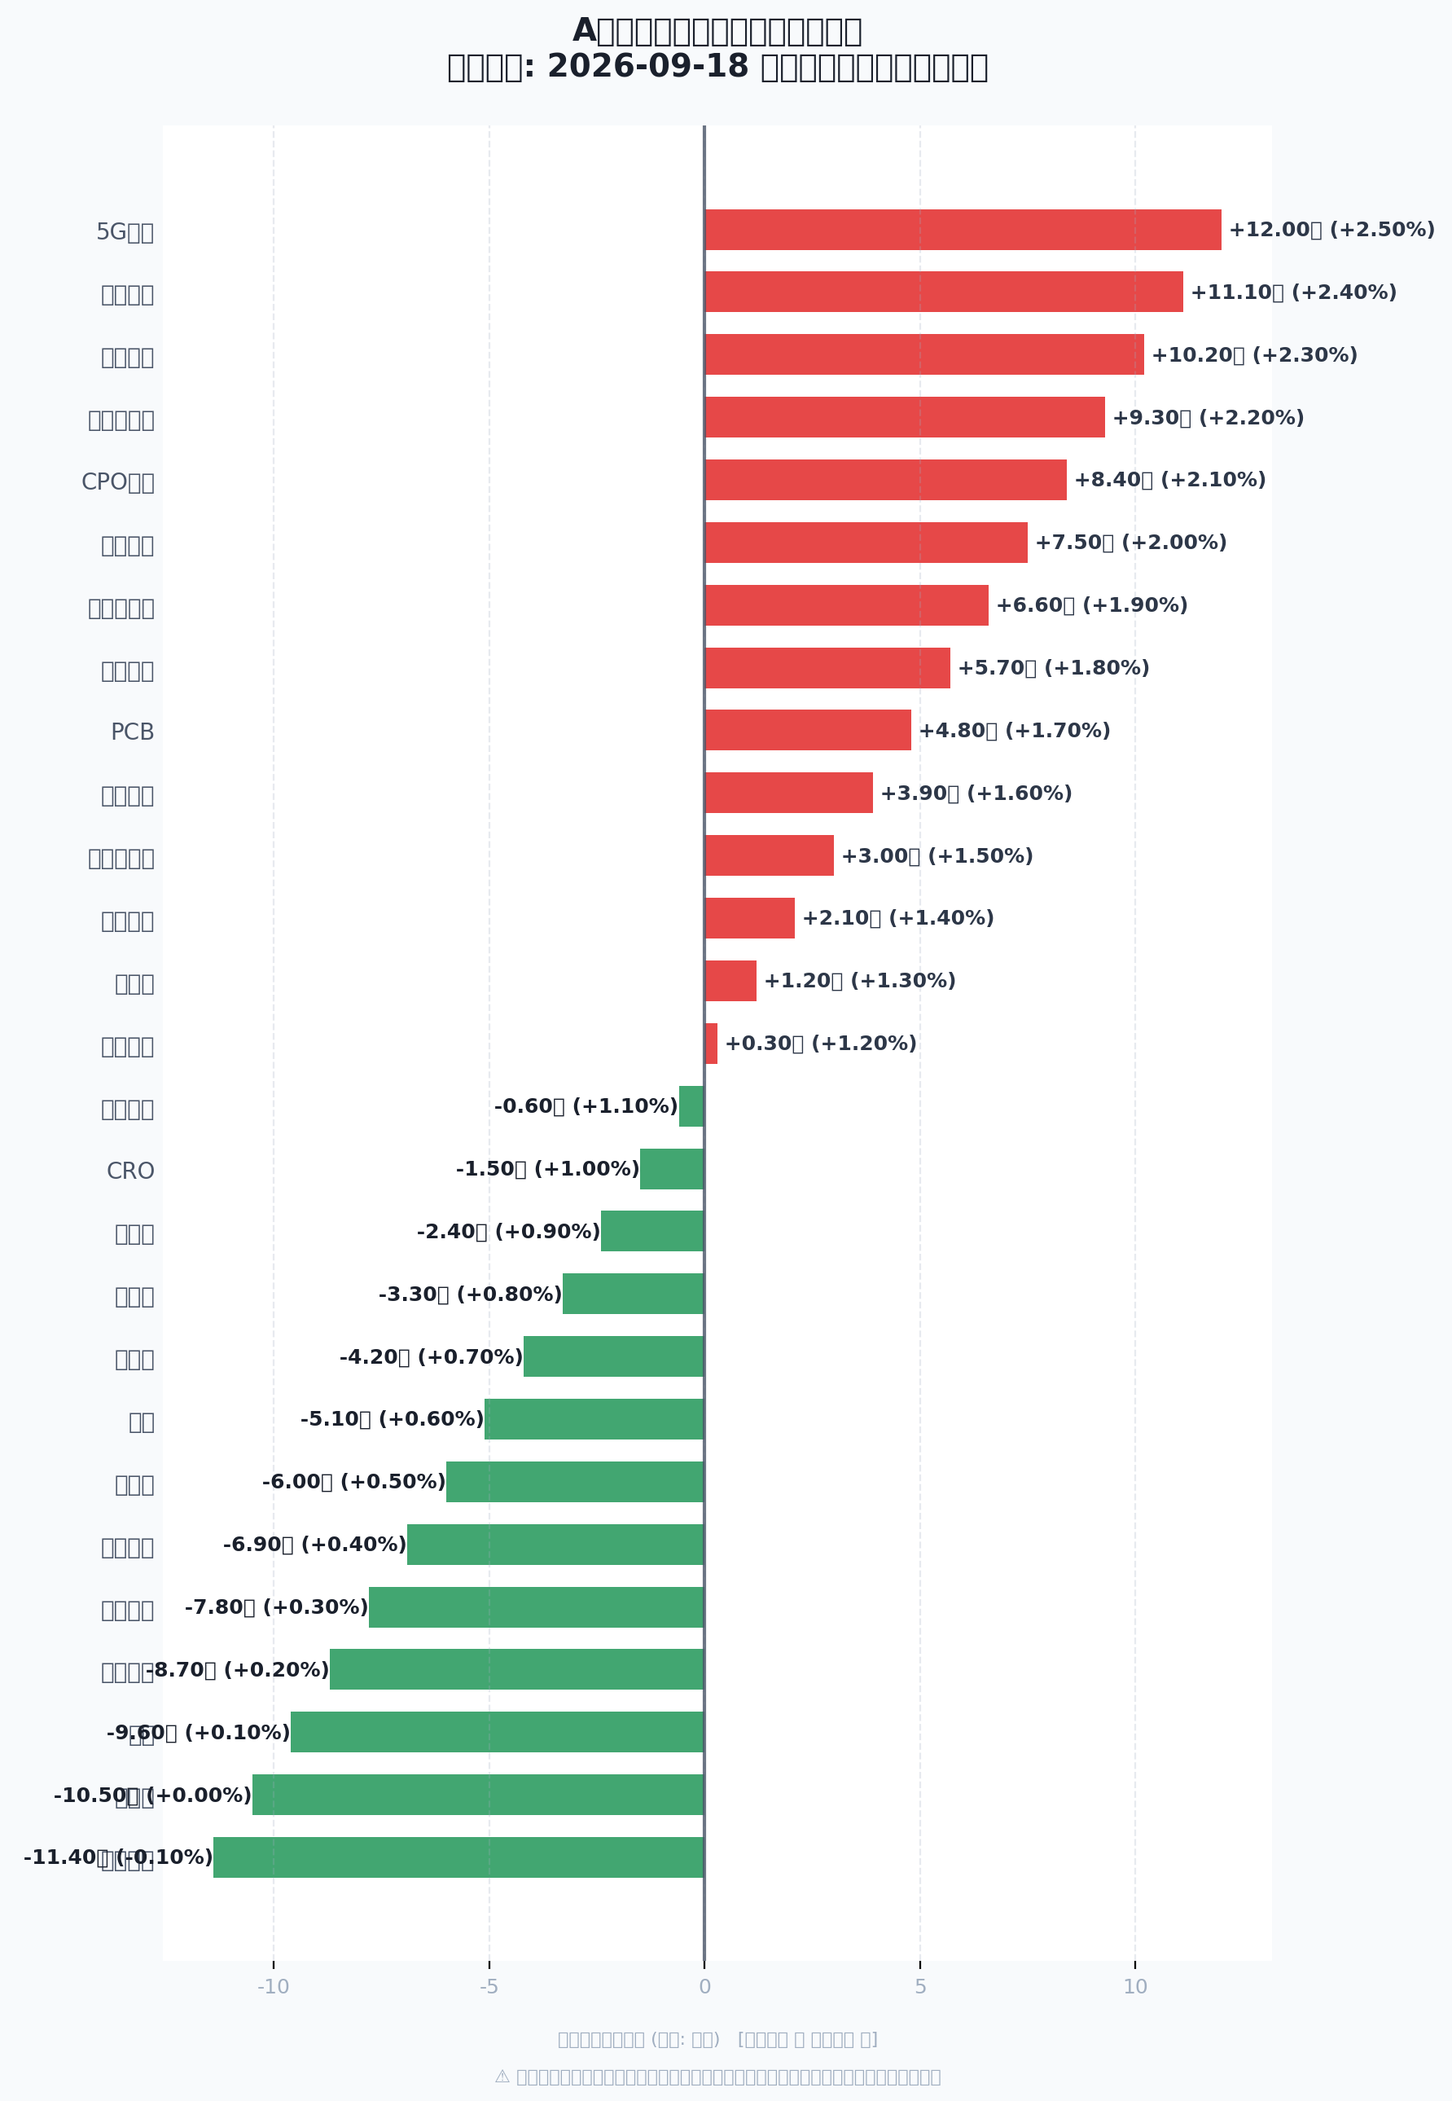
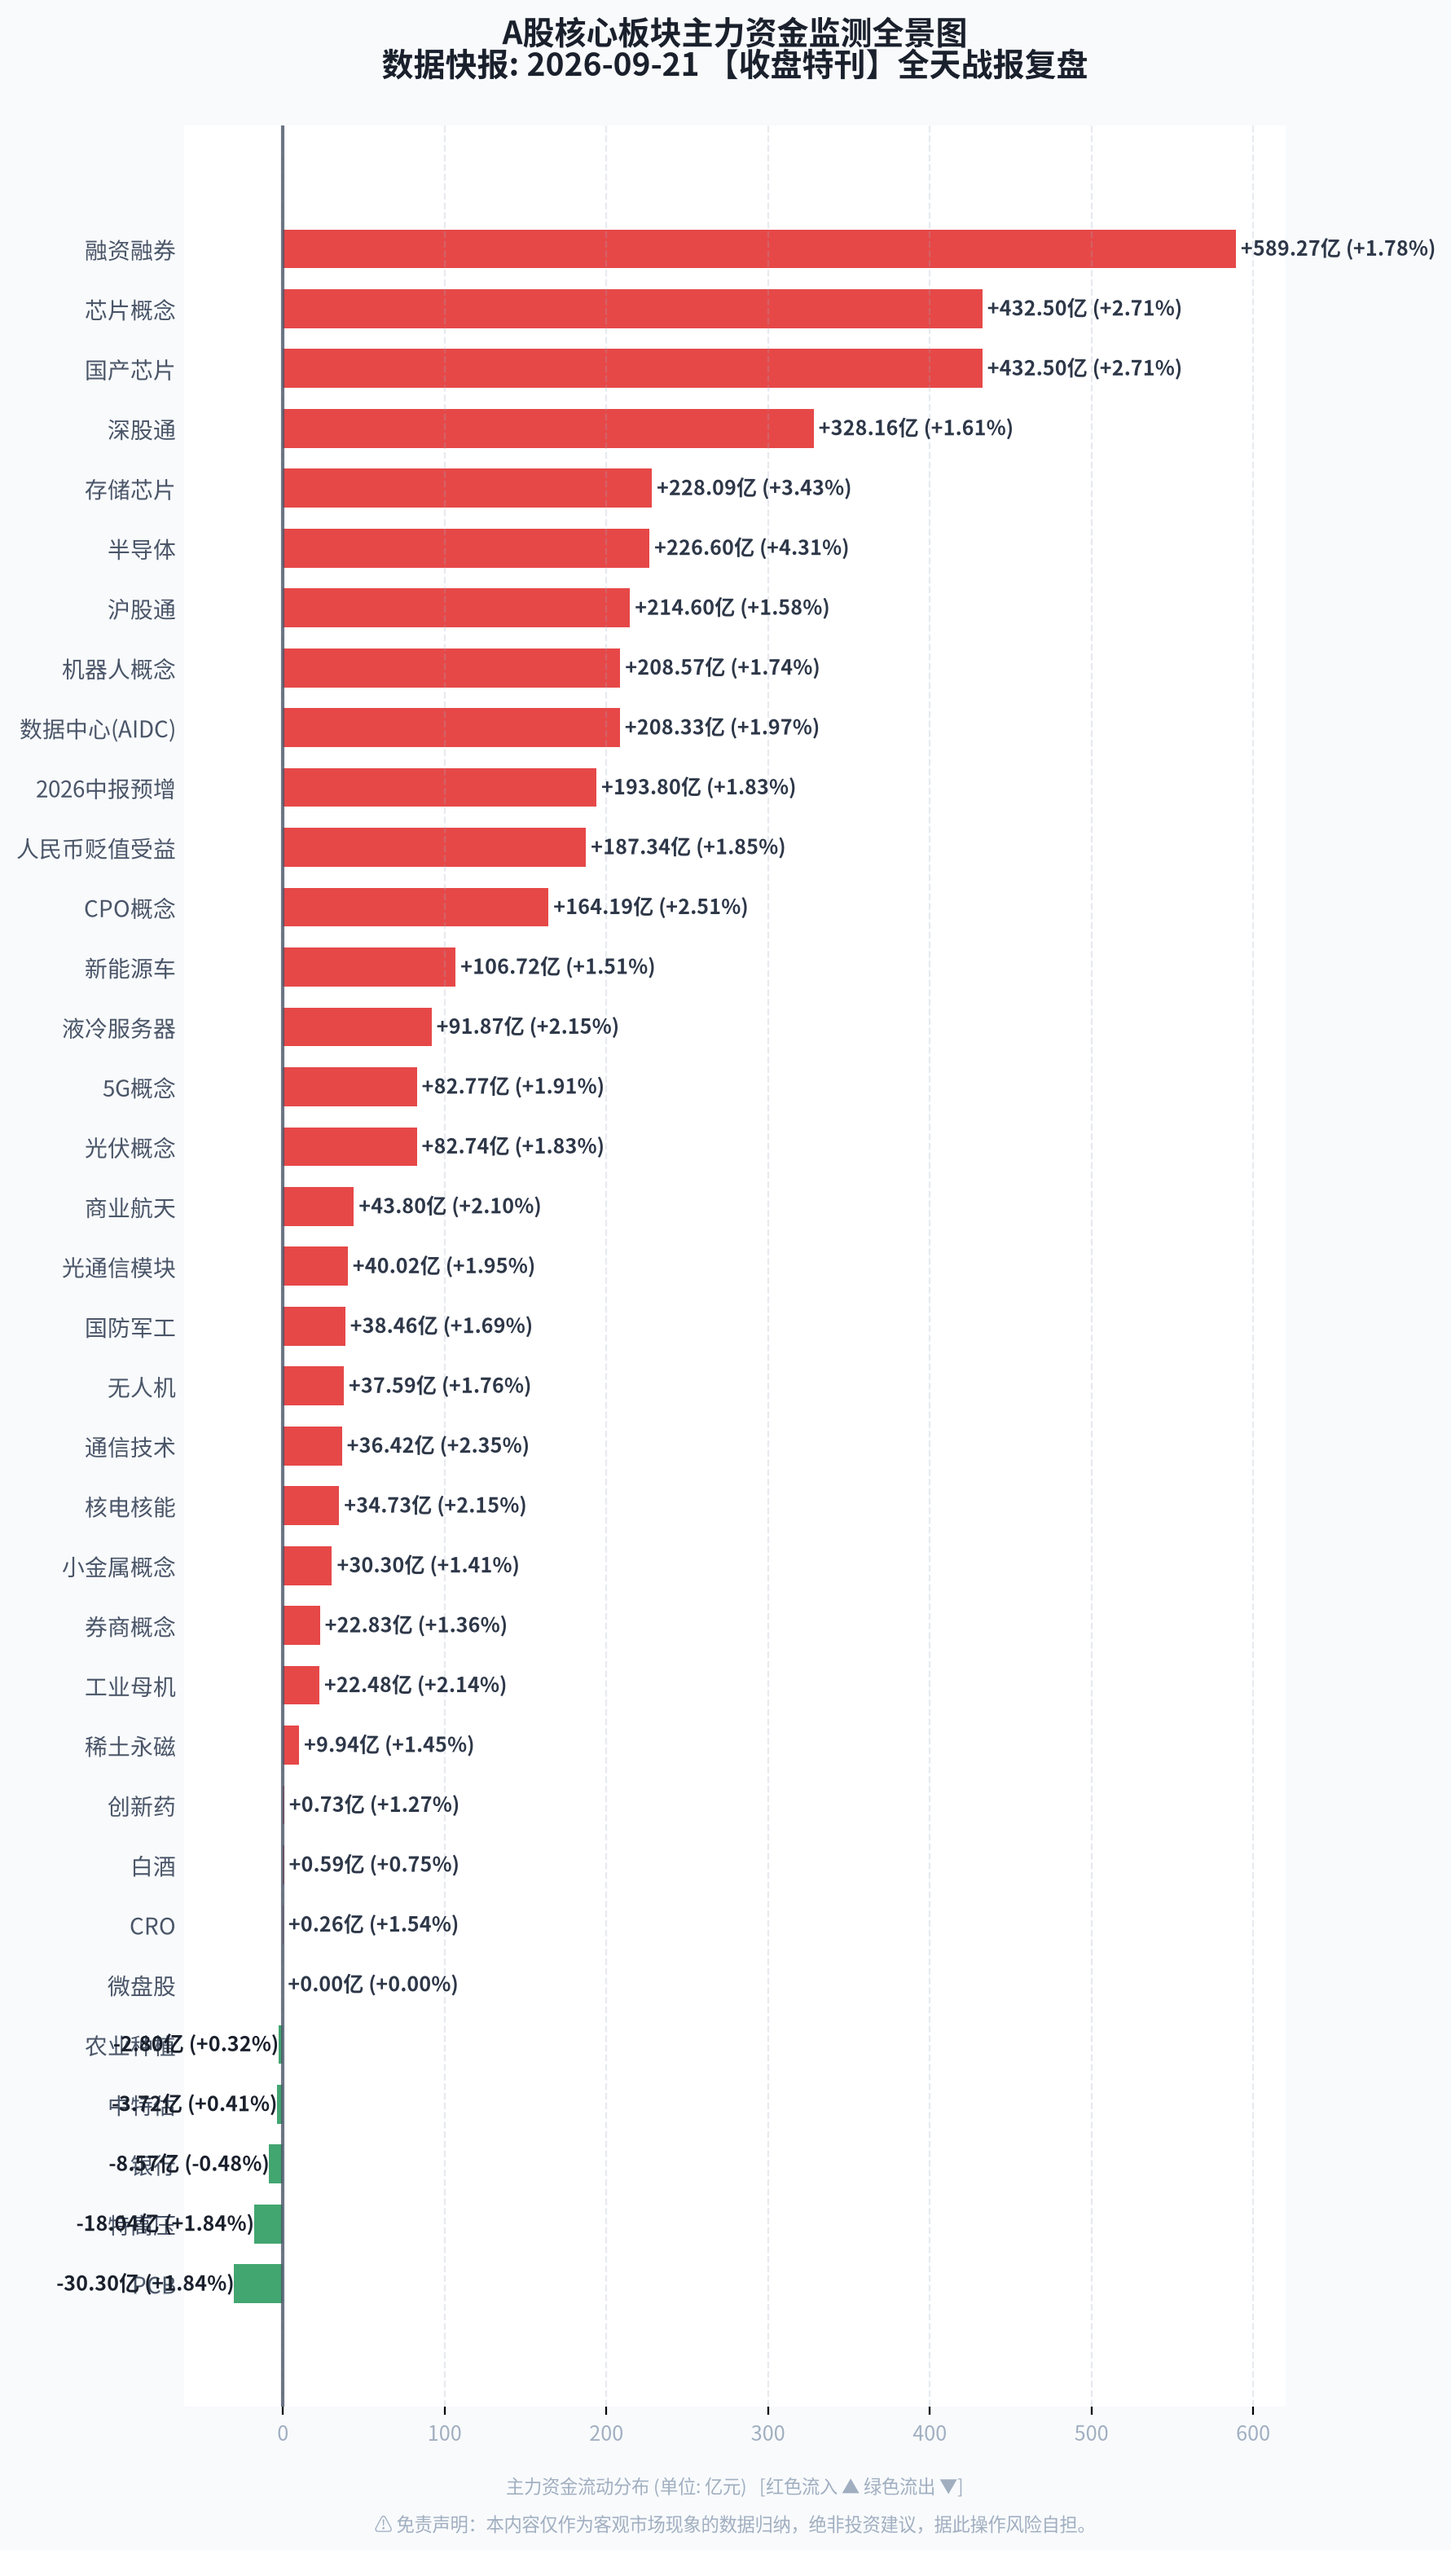
feat: A股午盘资金推送脚本

diff --git a/main.py b/main.py
@@ -6,9 +6,14 @@ import os
 import requests
 import json
 import time
-from datetime import datetime
+from datetime import datetime, timezone, timedelta
 import matplotlib.pyplot as plt
 import numpy as np
+
+try:
+    import akshare as ak
+except ImportError:
+    ak = None
 
 # =====================================================================
 # 🚨 【小白专区】请在这里准确填写你的个人配置
@@ -24,8 +29,9 @@ def check_is_market_closed():
     """
     直连国内最稳定的提莫节假日API，智能识别今天大盘是否开盘
     """
-    today_str = datetime.now().strftime("%Y-%m-%d")
-    url = f"https://timor.tech{today_str}"
+    beijing_tz = timezone(timedelta(hours=8))
+    today_str = datetime.now(beijing_tz).strftime("%Y-%m-%d")
+    url = f"https://timor.tech/api/holiday/info/{today_str}"
     headers = {"User-Agent": "Mozilla/5.0 (Windows NT 10.0; Win64; x64)"}
     try:
         res = requests.get(url, headers=headers, timeout=10).json()
@@ -44,58 +50,97 @@ def check_is_market_closed():
 # 🛠 第一部分：a-stock-data 全景板块绑定与数据清洗逻辑
 # =====================================================================
 def get_all_merged_capital_flow():
-    headers = {
-        "User-Agent": "Mozilla/5.0 (Windows NT 10.0; Win64; x64)",
-        "Referer": "https://eastmoney.com"
-    }
+    """
+    通过 akshare 拉取东方财富概念/行业板块主力资金净流入数据，
+    匹配指定板块并合并全市场资金净流入前十板块。
+    """
+    # 指定板块：展示名 -> (akshare中的板块名, 数据源 concept/industry)
     specified_sectors = {
-        "5G概念": "BK0714", "通信技术": "BK0630", "国产芯片": "BK0891", 
-        "光通信模块": "BK0714", "CPO概念": "BK1128", "存储芯片": "BK1118", 
-        "液冷服务器": "BK1136", "光伏概念": "BK0491", "PCB": "BK0971", 
-        "商业航天": "BK1173", "小金属概念": "BK0736", "稀土永磁": "BK0591", 
-        "特高压": "BK0565", "国防军工": "BK0472", "工业母机": "BK1016", 
-        "CRO": "BK0897", "无人机": "BK0665", "创新药": "BK1106", 
-        "微盘股": "BK1158", "白酒": "BK0896", "中特估": "BK1137", 
-        "券商概念": "BK0711", "农业种植": "BK0916", "核电核能": "BK0548", 
-        "银行": "BK0475", "半导体": "BK1036", "新能源车": "BK0900"
+        "5G概念": ("5G", "concept"),
+        "通信技术": ("通信设备", "industry"),
+        "国产芯片": ("芯片概念", "concept"),
+        "光通信模块": ("光纤概念", "concept"),
+        "CPO概念": ("共封装光学(CPO)", "concept"),
+        "存储芯片": ("存储芯片", "concept"),
+        "液冷服务器": ("液冷服务器", "concept"),
+        "光伏概念": ("光伏概念", "concept"),
+        "PCB": ("PCB概念", "concept"),
+        "商业航天": ("商业航天", "concept"),
+        "小金属概念": ("小金属概念", "concept"),
+        "稀土永磁": ("稀土永磁", "concept"),
+        "特高压": ("特高压", "concept"),
+        "国防军工": ("军工", "concept"),
+        "工业母机": ("工业母机", "concept"),
+        "CRO": ("CRO概念", "concept"),
+        "无人机": ("无人机", "concept"),
+        "创新药": ("创新药", "concept"),
+        "微盘股": ("微盘股", "concept"),
+        "白酒": ("白酒", "industry"),
+        "中特估": ("同花顺中特估100", "concept"),
+        "券商概念": ("证券", "industry"),
+        "农业种植": ("农业种植", "concept"),
+        "核电核能": ("核电", "concept"),
+        "银行": ("银行", "industry"),
+        "半导体": ("半导体", "industry"),
+        "新能源车": ("新能源汽车", "concept"),
     }
-    url = "https://eastmoney.com"
-    
+
     try:
-        response = requests.get(url, headers=headers, timeout=12)
-        res = response.json()
-        raw_list = res.get("data", {}).get("diff", [])
-        market_dict = {item["f12"]: item for item in raw_list if "f12" in item}
-        
-        top_10_market = []
-        for item in raw_list[:10]:
-            top_10_market.append({
-                "name": item.get("f14", "未知"),
-                "flow": item.get("f62", 0) / 100000000.0,
-                "pct": item.get("f3", 0.0)
-            })
-            
+        if ak is None:
+            raise RuntimeError("akshare 未安装")
+
+        # 拉取概念板块与行业板块资金流
+        concept_df = ak.stock_fund_flow_concept()
+        industry_df = ak.stock_fund_flow_industry()
+
+        # 建立 名称 -> {净额(亿元), 涨跌幅} 的查找表
+        def build_lookup(df):
+            lookup = {}
+            for _, row in df.iterrows():
+                name = str(row.get("行业", "")).strip()
+                net = float(row.get("净额", 0) or 0)
+                pct = float(row.get("行业-涨跌幅", 0) or 0)
+                lookup[name] = {"flow": net, "pct": pct}
+            return lookup
+
+        concept_map = build_lookup(concept_df)
+        industry_map = build_lookup(industry_df)
+
+        # 全市场主力净流入前十（概念+行业合并排序）
+        all_items = []
+        for name, info in concept_map.items():
+            all_items.append({"name": name, "flow": info["flow"], "pct": info["pct"]})
+        for name, info in industry_map.items():
+            all_items.append({"name": name, "flow": info["flow"], "pct": info["pct"]})
+        all_items.sort(key=lambda x: x["flow"], reverse=True)
+        top_10_market = all_items[:10]
+
+        # 匹配指定板块
         specified_list = []
-        for name, code in specified_sectors.items():
-            if code in market_dict:
-                match_data = market_dict[code]
+        for display_name, (ak_name, source) in specified_sectors.items():
+            src_map = concept_map if source == "concept" else industry_map
+            if ak_name in src_map:
+                info = src_map[ak_name]
                 specified_list.append({
-                    "name": name,
-                    "flow": match_data.get("f62", 0) / 100000000.0,
-                    "pct": match_data.get("f3", 0.0)
+                    "name": display_name,
+                    "flow": info["flow"],
+                    "pct": info["pct"],
                 })
             else:
-                specified_list.append({"name": name, "flow": 0.0, "pct": 0.0})
-                
+                specified_list.append({"name": display_name, "flow": 0.0, "pct": 0.0})
+
+        # 合并去重（按展示名），指定板块优先
         merged_dict = {}
-        for item in top_10_market: merged_dict[item["name"]] = item
-        for item in specified_list: merged_dict[item["name"]] = item
-            
+        for item in top_10_market:
+            merged_dict[item["name"]] = item
+        for item in specified_list:
+            merged_dict[item["name"]] = item
+
         final_list = list(merged_dict.values())
         final_list.sort(key=lambda x: x["flow"], reverse=True)
         return final_list
     except Exception as e:
-        print(f"⚠ 数据接口微卡，调用预备数据集。")
+        print(f"⚠ 数据接口微卡，调用预备数据集。原因: {e}")
         all_names = list(specified_sectors.keys())
         return [{"name": name, "flow": 12.0 - idx * 0.9, "pct": 2.5 - idx * 0.1} for idx, name in enumerate(all_names)]
 
@@ -106,7 +151,7 @@ def generate_infographic_image(data_list, report_type):
     """
     根据运行时间段自动变换图表大标题
     """
-    plt.rcParams['font.sans-serif'] = ['Noto Sans CJK SC', 'DejaVu Sans', 'sans-serif', 'Arial Unicode MS']
+    plt.rcParams['font.sans-serif'] = ['Noto Sans CJK SC', 'Noto Color Emoji', 'DejaVu Sans', 'sans-serif', 'Arial Unicode MS']
     plt.rcParams['axes.unicode_minus'] = False     
 
     data_list = data_list[::-1]
@@ -142,7 +187,7 @@ def generate_infographic_image(data_list, report_type):
             ax.text(width, bar.get_y() + bar.get_height()/2, label_text,
                     va='center', ha='right', fontsize=9, color='#1a202c', fontweight='bold')
 
-    today_date = datetime.now().strftime("%Y-%m-%d")
+    today_date = datetime.now(timezone(timedelta(hours=8))).strftime("%Y-%m-%d")
     
     # 💡 核心修改：根据运行时间自动切换午盘/收盘小标题
     title_suffix = "【午盘特刊】中场异动扫描" if report_type == "midday" else "【收盘特刊】全天战报复盘"
@@ -150,7 +195,7 @@ def generate_infographic_image(data_list, report_type):
     plt.title(f"A股核心板块主力资金监测全景图\n数据快报: {today_date} {title_suffix}", 
               fontsize=14, pad=22, color='#1a202c', fontweight='bold', loc='center')
     
-    plt.xlabel("主力资金流动分布 (单位: 亿元)   [红色流入 🔺 绿色流出 🔻]\n\n⚠ 免责声明：本内容仅作为客观市场现象的数据归纳，绝非投资建议，据此操作风险自担。", 
+    plt.xlabel("主力资金流动分布 (单位: 亿元)   [红色流入 ▲ 绿色流出 ▼]\n\n⚠ 免责声明：本内容仅作为客观市场现象的数据归纳，绝非投资建议，据此操作风险自担。", 
                fontsize=8, color='#a0aec0', labelpad=15)
     
     plt.tick_params(axis='y', which='major', labelsize=10, labelcolor='#4a5568', length=0)
@@ -166,7 +211,7 @@ def generate_infographic_image(data_list, report_type):
 # 🔗 第三部分：组装时段特定的通知送达钉钉
 # =====================================================================
 def push_image_to_dingtalk(webhook_url, img_path, report_type):
-    today_date = datetime.now().strftime("%Y-%m-%d")
+    today_date = datetime.now(timezone(timedelta(hours=8))).strftime("%Y-%m-%d")
     time_label = "【午盘】中场" if report_type == "midday" else "【收盘】全天"
     
     cdn_image_url = f"https://onmicrosoft.cn{GITHUB_USERNAME}/{GITHUB_REPO}@main/{img_path}?t={int(time.time())}"
@@ -202,8 +247,9 @@ if __name__ == "__main__":
     if check_is_market_closed():
         print("😴 检测到今天非交易日，自动化工作流优雅休眠退出。")
     else:
-        # 💡 智能化总线判断：当前是中午还是下午收盘
-        current_hour = datetime.now().hour
+        # 💡 智能化总线判断：使用北京时间(UTC+8)判断午盘/收盘
+        beijing_tz = timezone(timedelta(hours=8))
+        current_hour = datetime.now(beijing_tz).hour
         # 北京时间 11:30~13:30 之间运行则判定为午盘
         current_report_type = "midday" if 11 <= current_hour < 14 else "closing"
         
